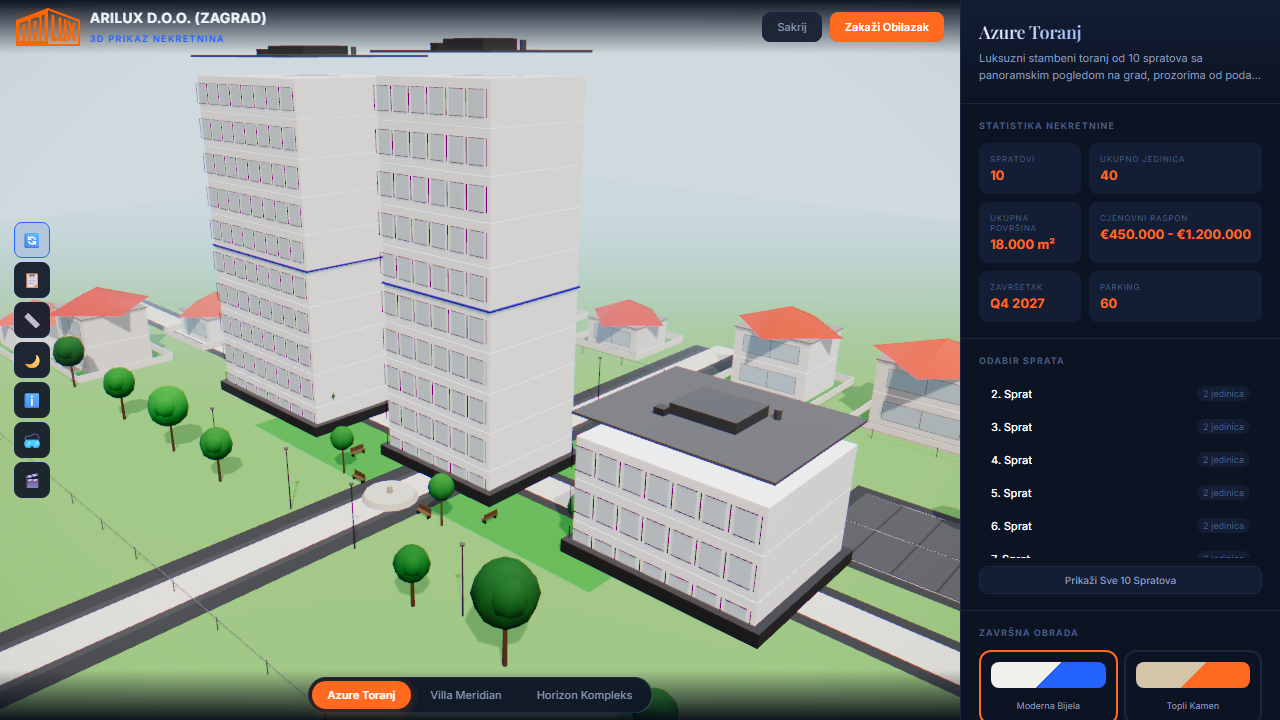
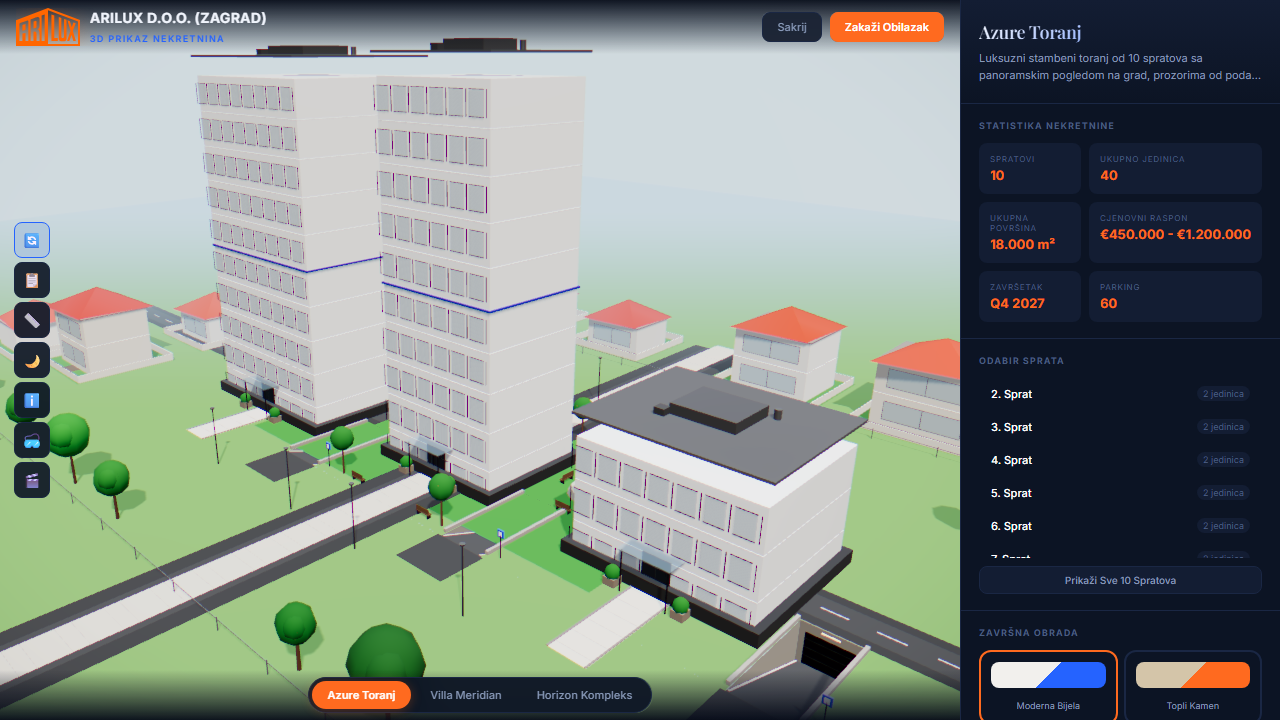
Logical urban layout: remove roads through buildings, add entrance walkways with canopies and doors, underground parking ramps per building, side streets, fix house roof alignment

diff --git a/src/components/viewer/GroundPlane.jsx b/src/components/viewer/GroundPlane.jsx
@@ -41,6 +41,163 @@ function Road({ position, width, length, rotation = 0 }) {
   )
 }
 
+function Walkway({ position, width = 3, length = 10 }) {
+  const seams = Math.floor(length / 1.5)
+  return (
+    <group position={position}>
+      <mesh position={[0, 0.035, 0]} receiveShadow rotation={[-Math.PI / 2, 0, 0]}>
+        <planeGeometry args={[width, length]} />
+        <meshStandardMaterial color="#D8D0C0" roughness={0.75} />
+      </mesh>
+      {[-1, 1].map((s) => (
+        <mesh key={s} position={[s * (width / 2 - 0.07), 0.05, 0]} receiveShadow>
+          <boxGeometry args={[0.14, 0.05, length]} />
+          <meshStandardMaterial color="#8A8078" roughness={0.7} />
+        </mesh>
+      ))}
+      {Array.from({ length: seams }, (_, i) => (
+        <mesh key={i} position={[0, 0.04, -length / 2 + i * 1.5 + 0.75]} receiveShadow rotation={[-Math.PI / 2, 0, 0]}>
+          <planeGeometry args={[width - 0.3, 0.03]} />
+          <meshStandardMaterial color="#B0A898" roughness={0.8} />
+        </mesh>
+      ))}
+    </group>
+  )
+}
+
+function EntranceCanopy({ position, width = 4 }) {
+  return (
+    <group position={position}>
+      <mesh position={[0, 3.15, 0.85]} castShadow>
+        <boxGeometry args={[width, 0.08, 1.7]} />
+        <meshPhysicalMaterial color="#A8CCDD" metalness={0.1} roughness={0.08} transmission={0.6} thickness={0.2} transparent opacity={0.55} clearcoat={0.9} />
+      </mesh>
+      {[-1, 1].map((s) => (
+        <mesh key={s} position={[s * (width / 2 - 0.25), 1.55, 1.45]} castShadow>
+          <cylinderGeometry args={[0.05, 0.05, 3.1, 8]} />
+          <meshStandardMaterial color="#2A2A2E" metalness={0.8} roughness={0.25} />
+        </mesh>
+      ))}
+      <mesh position={[0, 1.35, 0.06]}>
+        <planeGeometry args={[2.2, 2.7]} />
+        <meshPhysicalMaterial color="#1A2830" metalness={0.3} roughness={0.1} clearcoat={0.8} />
+      </mesh>
+      <mesh position={[0, 1.35, 0.075]}>
+        <planeGeometry args={[0.04, 2.7]} />
+        <meshStandardMaterial color="#555B60" metalness={0.7} roughness={0.3} />
+      </mesh>
+      {[-1, 1].map((s) => (
+        <group key={s} position={[s * (width / 2 + 0.6), 0, 1.1]}>
+          <mesh position={[0, 0.3, 0]} castShadow>
+            <boxGeometry args={[0.9, 0.6, 0.9]} />
+            <meshStandardMaterial color="#8A7A6A" roughness={0.8} />
+          </mesh>
+          <mesh position={[0, 0.85, 0]} castShadow>
+            <sphereGeometry args={[0.55, 8, 6]} />
+            <meshStandardMaterial color="#2A7A22" roughness={0.85} />
+          </mesh>
+        </group>
+      ))}
+    </group>
+  )
+}
+
+function ParkingRamp({ position, width = 4, length = 9, depth = 3, isNight }) {
+  const slopeLen = Math.sqrt(length * length + depth * depth)
+  const alpha = Math.atan2(depth, length)
+
+  const sideShape = useMemo(() => {
+    const s = new THREE.Shape()
+    s.moveTo(0, 0)
+    s.lineTo(length, 0)
+    s.lineTo(length, -depth)
+    s.closePath()
+    return s
+  }, [length, depth])
+
+  const sideGeo = useMemo(() => new THREE.ShapeGeometry(sideShape), [sideShape])
+
+  return (
+    <group position={position}>
+      {/* Prilazna ploca (apron) od trotoara do rampe */}
+      <mesh position={[0, 0.025, length / 2 + 2]} receiveShadow rotation={[-Math.PI / 2, 0, 0]}>
+        <planeGeometry args={[width + 0.6, 4]} />
+        <meshStandardMaterial color="#3F3F3F" roughness={0.92} />
+      </mesh>
+
+      {/* Kosina rampe */}
+      <mesh position={[0, -depth / 2 + 0.02, 0]} rotation={[-Math.PI / 2 - alpha, 0, 0]} receiveShadow>
+        <planeGeometry args={[width, slopeLen]} />
+        <meshStandardMaterial color="#4A4A4A" roughness={0.9} />
+      </mesh>
+
+      {/* Vodici na kosini */}
+      {[-1, 1].map((s) => (
+        <mesh key={s} position={[s * (width / 2 - 0.15), -depth / 2 + 0.06, 0]} rotation={[-alpha, 0, 0]}>
+          <boxGeometry args={[0.12, 0.02, slopeLen - 0.3]} />
+          <meshStandardMaterial color="#D8D0C0" roughness={0.7} />
+        </mesh>
+      ))}
+
+      {/* Bocni zidovi rova (trougaoni) */}
+      {[-1, 1].map((s) => (
+        <mesh key={s} geometry={sideGeo} position={[s * (width / 2 - 0.02), 0, length / 2]} rotation={[0, Math.PI / 2, 0]}>
+          <meshStandardMaterial color="#9A9288" roughness={0.85} side={THREE.DoubleSide} />
+        </mesh>
+      ))}
+
+      {/* Celnji zid sa garaznim vratima */}
+      <mesh position={[0, -(depth + 0.2) / 2, -length / 2 - 0.13]}>
+        <boxGeometry args={[width + 0.3, depth + 0.2, 0.26]} />
+        <meshStandardMaterial color="#8A8278" roughness={0.85} />
+      </mesh>
+      <mesh position={[0, -depth + 1.2, -length / 2 + 0.02]}>
+        <planeGeometry args={[width - 0.8, 2.3]} />
+        <meshStandardMaterial color="#101014" metalness={0.6} roughness={0.4} />
+      </mesh>
+      {[-0.5, 0.1, 0.7].map((dy, i) => (
+        <mesh key={i} position={[0, -depth + 1.2 + dy, -length / 2 + 0.035]}>
+          <planeGeometry args={[width - 0.8, 0.05]} />
+          <meshStandardMaterial color="#3A3A40" metalness={0.5} roughness={0.5} />
+        </mesh>
+      ))}
+
+      {/* Svjetlo iznad vrata */}
+      <mesh position={[0, -0.25, -length / 2 + 0.05]}>
+        <boxGeometry args={[1.2, 0.08, 0.06]} />
+        <meshStandardMaterial color="#FFE8B0" emissive="#FFE8B0" emissiveIntensity={isNight ? 2.5 : 0.4} />
+      </mesh>
+      {isNight && (
+        <pointLight position={[0, -0.5, -length / 2 + 1]} intensity={0.8} color="#FFE8B0" distance={8} decay={2} />
+      )}
+
+      {/* Rubnjaci uz ivice rova */}
+      {[-1, 1].map((s) => (
+        <mesh key={s} position={[s * (width / 2 + 0.13), 0.15, -0.25]} castShadow>
+          <boxGeometry args={[0.25, 0.3, length - 0.5]} />
+          <meshStandardMaterial color="#A8A098" roughness={0.8} />
+        </mesh>
+      ))}
+
+      {/* Parking znak */}
+      <group position={[width / 2 + 1.1, 0, length / 2 - 0.9]}>
+        <mesh position={[0, 0.9, 0]} castShadow>
+          <cylinderGeometry args={[0.04, 0.04, 1.8, 6]} />
+          <meshStandardMaterial color="#4A4A4E" metalness={0.7} roughness={0.3} />
+        </mesh>
+        <mesh position={[0, 1.9, 0]} castShadow>
+          <boxGeometry args={[0.55, 0.55, 0.05]} />
+          <meshStandardMaterial color="#2563FF" roughness={0.4} />
+        </mesh>
+        <mesh position={[0, 1.9, 0.03]}>
+          <planeGeometry args={[0.3, 0.35]} />
+          <meshStandardMaterial color="#FFFFFF" roughness={0.5} />
+        </mesh>
+      </group>
+    </group>
+  )
+}
+
 function Tree({ position, scale = 1, variant = 0 }) {
   const trunkH = 2.5 + variant * 0.5
   const canopyR = 1.2 + variant * 0.3
@@ -158,8 +315,13 @@ function BosnianHouse({ position, width = 8, depth = 7, height = 3.5, wallColor 
         </group>
       ))}
 
-      <mesh position={[0, floors * floorH + roofH / 2, 0]} castShadow>
-        <coneGeometry args={[Math.max(width, depth) * 0.72, roofH, 4]} />
+      <mesh
+        position={[0, floors * floorH + roofH / 2, 0]}
+        rotation={[0, Math.PI / 4, 0]}
+        scale={[(width + 0.6) / Math.SQRT2, 1, (depth + 0.6) / Math.SQRT2]}
+        castShadow
+      >
+        <coneGeometry args={[1, roofH, 4]} />
         <meshStandardMaterial color={roofColor} roughness={0.65} metalness={0.05} />
       </mesh>
 
@@ -273,43 +435,6 @@ function GrassPatch({ position, width, length }) {
   )
 }
 
-function ParkingLot({ position, spots = 12, rotation = 0 }) {
-  const cols = Math.min(spots, 6)
-  const rows = Math.ceil(spots / cols)
-  const spotW = 2.8
-  const spotL = 5.0
-  const gap = 0.15
-  const totalW = cols * (spotW + gap)
-  const totalL = rows * (spotL + gap)
-
-  return (
-    <group position={position} rotation={[0, rotation, 0]}>
-      <mesh position={[0, 0.01, 0]} receiveShadow rotation={[-Math.PI / 2, 0, 0]}>
-        <planeGeometry args={[totalW + 2, totalL + 2]} />
-        <meshStandardMaterial color="#3A3A3A" roughness={0.95} />
-      </mesh>
-      {Array.from({ length: spots }, (_, i) => {
-        const col = i % cols
-        const row = Math.floor(i / cols)
-        const x = -totalW / 2 + col * (spotW + gap) + spotW / 2
-        const z = -totalL / 2 + row * (spotL + gap) + spotL / 2
-        return (
-          <mesh key={i} position={[x, 0.015, z]} receiveShadow rotation={[-Math.PI / 2, 0, 0]}>
-            <planeGeometry args={[spotW, spotL]} />
-            <meshStandardMaterial color="#4A4A4A" roughness={0.9} />
-          </mesh>
-        )
-      })}
-      {Array.from({ length: rows + 1 }, (_, i) => (
-        <mesh key={i} position={[0, 0.012, -totalL / 2 + i * (spotL + gap)]} receiveShadow rotation={[-Math.PI / 2, 0, 0]}>
-          <planeGeometry args={[totalW, 0.06]} />
-          <meshStandardMaterial color="#FFFFFF" transparent opacity={0.35} />
-        </mesh>
-      ))}
-    </group>
-  )
-}
-
 function SmallShop({ position, width = 5, depth = 4, height = 3.2, wallColor = '#E8E4DD', signColor = '#2563FF', rotation = 0 }) {
   return (
     <group position={position} rotation={[0, rotation, 0]}>
@@ -325,8 +450,13 @@ function SmallShop({ position, width = 5, depth = 4, height = 3.2, wallColor = '
         <boxGeometry args={[width * 0.6, 0.4, 0.08]} />
         <meshStandardMaterial color={signColor} roughness={0.4} />
       </mesh>
-      <mesh position={[0, height + 1.2, 0]} castShadow>
-        <coneGeometry args={[Math.max(width, depth) * 0.7, 1.5, 4]} />
+      <mesh
+        position={[0, height + 1.25, 0]}
+        rotation={[0, Math.PI / 4, 0]}
+        scale={[(width + 0.4) / Math.SQRT2, 1, (depth + 0.4) / Math.SQRT2]}
+        castShadow
+      >
+        <coneGeometry args={[1, 1.5, 4]} />
         <meshStandardMaterial color="#B84030" roughness={0.7} />
       </mesh>
     </group>
@@ -336,39 +466,84 @@ function SmallShop({ position, width = 5, depth = 4, height = 3.2, wallColor = '
 export default function GroundPlane() {
   const isNightMode = useStore((s) => s.isNightMode)
 
+  const groundGeo = useMemo(() => {
+    const shape = new THREE.Shape()
+    shape.moveTo(-150, -150)
+    shape.lineTo(150, -150)
+    shape.lineTo(150, 150)
+    shape.lineTo(-150, 150)
+    shape.closePath()
+
+    const holes = [
+      [7, 11],    // Azure Toranj rampa: x 7..11
+      [30, 34],   // Villa Meridian rampa: x 30..34
+      [-13, -9],  // Horizon Kompleks rampa: x -13..-9
+    ]
+    holes.forEach(([x1, x2]) => {
+      const h = new THREE.Path()
+      h.moveTo(x1, -2)
+      h.lineTo(x2, -2)
+      h.lineTo(x2, -11)
+      h.lineTo(x1, -11)
+      h.closePath()
+      shape.holes.push(h)
+    })
+
+    return new THREE.ShapeGeometry(shape)
+  }, [])
+
   return (
     <group position={[0, -1, 0]}>
-      <mesh position={[0, -0.01, 0]} receiveShadow rotation={[-Math.PI / 2, 0, 0]}>
-        <planeGeometry args={[300, 300]} />
+      <mesh geometry={groundGeo} position={[0, -0.01, 0]} rotation={[-Math.PI / 2, 0, 0]} receiveShadow>
         <meshStandardMaterial color={isNightMode ? '#080C12' : '#6A9A50'} roughness={0.92} />
       </mesh>
 
       <GrassPatch position={[-10, 0, 0]} width={20} length={20} />
       <GrassPatch position={[10, 0, 0]} width={18} length={18} />
 
+      {/* Glavna ulica (istok-zapad) */}
       <Road position={[0, 0.03, 20]} width={7} length={120} />
-      <Road position={[-25, 0.03, 0]} width={5} length={100} rotation={Math.PI / 2} />
-      <Road position={[25, 0.03, 0]} width={5} length={100} rotation={Math.PI / 2} />
+      {/* Bocne ulice - ne dodiruju zgrade */}
+      <Road position={[39, 0.03, 0]} width={4} length={54} rotation={Math.PI / 2} />
+      <Road position={[-39, 0.03, 0]} width={4} length={54} rotation={Math.PI / 2} />
 
       <Sidewalk position={[0, 0.04, 16]} width={3} length={115} />
       <Sidewalk position={[0, 0.04, 24]} width={3} length={115} />
-      <Sidewalk position={[-22, 0.04, 0]} width={3} length={95} rotation={Math.PI / 2} />
-      <Sidewalk position={[22, 0.04, 0]} width={3} length={95} rotation={Math.PI / 2} />
 
-      <ParkingLot position={[35, 0, -12]} spots={12} />
-      <ParkingLot position={[-35, 0, -12]} spots={10} />
+      {/* Podzemni parking - rampa za svaku zgradu */}
+      <ParkingRamp position={[9, 0, 6.5]} isNight={isNightMode} />
+      <ParkingRamp position={[32, 0, 6.5]} isNight={isNightMode} />
+      <ParkingRamp position={[-11, 0, 6.5]} isNight={isNightMode} />
 
-      <SmallFountain position={[0, 0, 10]} />
+      {/* Pjesacki prilazi ulazima */}
+      <Walkway position={[0, 0, 10]} width={3} length={10} />
+      <Walkway position={[22, 0, 10.5]} width={3} length={9} />
+      <Walkway position={[-22, 0, 11]} width={3} length={8} />
 
-      <Tree position={[12, 0, 18]} scale={1.0} variant={0} />
-      <Tree position={[-12, 0, 18]} scale={0.9} variant={1} />
-      <Tree position={[20, 0, 18]} scale={1.1} variant={2} />
-      <Tree position={[-20, 0, 18]} scale={0.85} variant={3} />
-      <Tree position={[30, 0, 18]} scale={0.95} variant={0} />
-      <Tree position={[-30, 0, 18]} scale={1.0} variant={1} />
-      <Tree position={[-42, 0, 18]} scale={0.9} variant={2} />
-      <Tree position={[42, 0, 18]} scale={1.05} variant={0} />
+      {/* Nadstresnice i ulazna vrata */}
+      <EntranceCanopy position={[0, 0, 5]} width={4} />
+      <EntranceCanopy position={[22, 0, 6]} width={4} />
+      <EntranceCanopy position={[-22, 0, 7]} width={4} />
 
+      {/* Parkic sa fontanom */}
+      <SmallFountain position={[11, 0, -2]} />
+      <SmallBench position={[8, 0, -2]} rotation={-Math.PI / 2} />
+      <SmallBench position={[14, 0, -2]} rotation={Math.PI / 2} />
+      <SmallBench position={[11, 0, 2]} rotation={Math.PI} />
+      <SmallBench position={[4, 0, 10]} rotation={Math.PI} />
+      <SmallBench position={[-4, 0, 10]} rotation={Math.PI} />
+
+      {/* Drvece uz glavnu ulicu (juzna strana) */}
+      <Tree position={[12, 0, 26.5]} scale={1.0} variant={0} />
+      <Tree position={[-12, 0, 26.5]} scale={0.9} variant={1} />
+      <Tree position={[20, 0, 26.5]} scale={1.1} variant={2} />
+      <Tree position={[-20, 0, 26.5]} scale={0.85} variant={3} />
+      <Tree position={[30, 0, 26.5]} scale={0.95} variant={0} />
+      <Tree position={[-30, 0, 26.5]} scale={1.0} variant={1} />
+      <Tree position={[-46, 0, 26.5]} scale={0.9} variant={2} />
+      <Tree position={[46, 0, 26.5]} scale={1.05} variant={0} />
+
+      {/* Drvece sjeverna strana */}
       <Tree position={[10, 0, -16]} scale={0.95} variant={1} />
       <Tree position={[-10, 0, -16]} scale={1.0} variant={2} />
       <Tree position={[20, 0, -16]} scale={0.85} variant={3} />
@@ -376,17 +551,13 @@ export default function GroundPlane() {
       <Tree position={[35, 0, -16]} scale={1.0} variant={1} />
       <Tree position={[-35, 0, -16]} scale={0.95} variant={2} />
 
+      {/* Vocke */}
       <FruitTree position={[6, 0, 10]} />
       <FruitTree position={[-6, 0, 10]} />
-      <FruitTree position={[3, 0, -5]} />
-      <FruitTree position={[-3, 0, -5]} />
-      <FruitTree position={[15, 0, 5]} />
-      <FruitTree position={[-15, 0, 5]} />
-
-      <SmallBench position={[4, 0, 10]} />
-      <SmallBench position={[-4, 0, 10]} />
-      <SmallBench position={[8, 0, 7]} rotation={-Math.PI / 2} />
-      <SmallBench position={[-8, 0, 7]} rotation={Math.PI / 2} />
+      <FruitTree position={[4, 0, -9]} />
+      <FruitTree position={[-4, 0, -9]} />
+      <FruitTree position={[16, 0, 2]} />
+      <FruitTree position={[-13, 0, -3]} />
 
       <StreetLamp position={[4, 0, 16.5]} isNight={isNightMode} />
       <StreetLamp position={[-4, 0, 16.5]} isNight={isNightMode} />
@@ -399,14 +570,17 @@ export default function GroundPlane() {
       <Fence start={[-50, 28]} end={[50, 28]} posts={18} />
       <Fence start={[-50, -28]} end={[50, -28]} posts={18} />
 
+      {/* Kuce istocna strana */}
       <BosnianHouse position={[48, 0, 12]} width={7} depth={6} height={3.5} wallColor="#F0EDE8" roofColor="#C04020" />
       <BosnianHouse position={[48, 0, -2]} width={8} depth={7} height={6.5} wallColor="#E8E4DD" roofColor="#B83828" />
       <BosnianHouse position={[48, 0, -16]} width={7} depth={6} height={3.5} wallColor="#F5F0E8" roofColor="#C84830" />
 
+      {/* Kuce zapadna strana */}
       <BosnianHouse position={[-48, 0, 12]} width={8} depth={7} height={6.5} wallColor="#E8E0D4" roofColor="#B83828" />
       <BosnianHouse position={[-48, 0, -2]} width={7} depth={6} height={3.5} wallColor="#F0EDE8" roofColor="#C04020" />
       <BosnianHouse position={[-48, 0, -16]} width={9} depth={7} height={6.5} wallColor="#E4DCD0" roofColor="#A83020" />
 
+      {/* Kuce sjeverni red */}
       <BosnianHouse position={[10, 0, -35]} width={8} depth={7} height={6.5} wallColor="#F0EDE8" roofColor="#C04020" />
       <BosnianHouse position={[-10, 0, -35]} width={7} depth={6} height={3.5} wallColor="#E8E4DD" roofColor="#B83828" />
       <BosnianHouse position={[25, 0, -35]} width={9} depth={7} height={6.5} wallColor="#E8E0D4" roofColor="#C84830" />
@@ -414,12 +588,11 @@ export default function GroundPlane() {
       <BosnianHouse position={[40, 0, -35]} width={7} depth={6} height={3.5} wallColor="#E4DCD0" roofColor="#C04020" />
       <BosnianHouse position={[-40, 0, -35]} width={8} depth={7} height={6.5} wallColor="#E8E4DD" roofColor="#B83828" />
 
+      {/* Trgovine i kuce juzni red */}
       <SmallShop position={[55, 0, 38]} width={5} depth={4} height={3.2} signColor="#2563FF" />
       <SmallShop position={[-55, 0, 38]} width={5} depth={4} height={3.2} signColor="#FF6A1F" />
-
       <BosnianHouse position={[55, 0, 45]} width={7} depth={6} height={3.5} wallColor="#F0EDE8" roofColor="#C04020" rotation={Math.PI} />
       <BosnianHouse position={[-55, 0, 45]} width={8} depth={7} height={6.5} wallColor="#E8E0D4" roofColor="#B83828" rotation={Math.PI} />
-
       <BosnianHouse position={[60, 0, 15]} width={8} depth={7} height={6.5} wallColor="#E8E4DD" roofColor="#A83020" rotation={Math.PI / 2} />
       <BosnianHouse position={[-60, 0, 15]} width={7} depth={6} height={3.5} wallColor="#F5F0E8" roofColor="#C84830" rotation={-Math.PI / 2} />
 